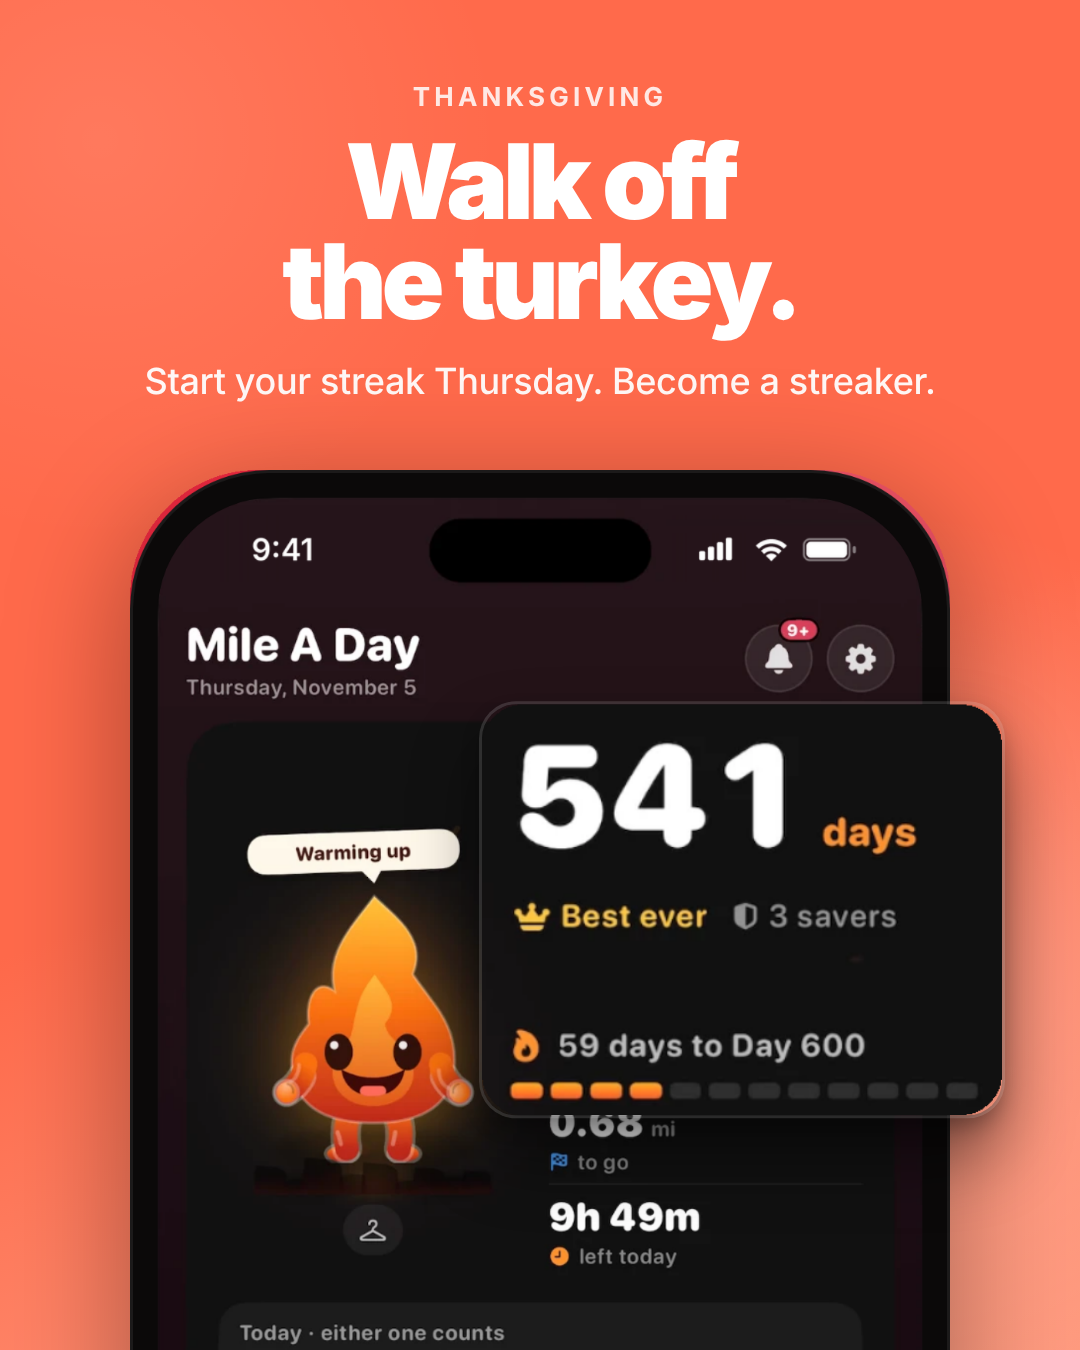
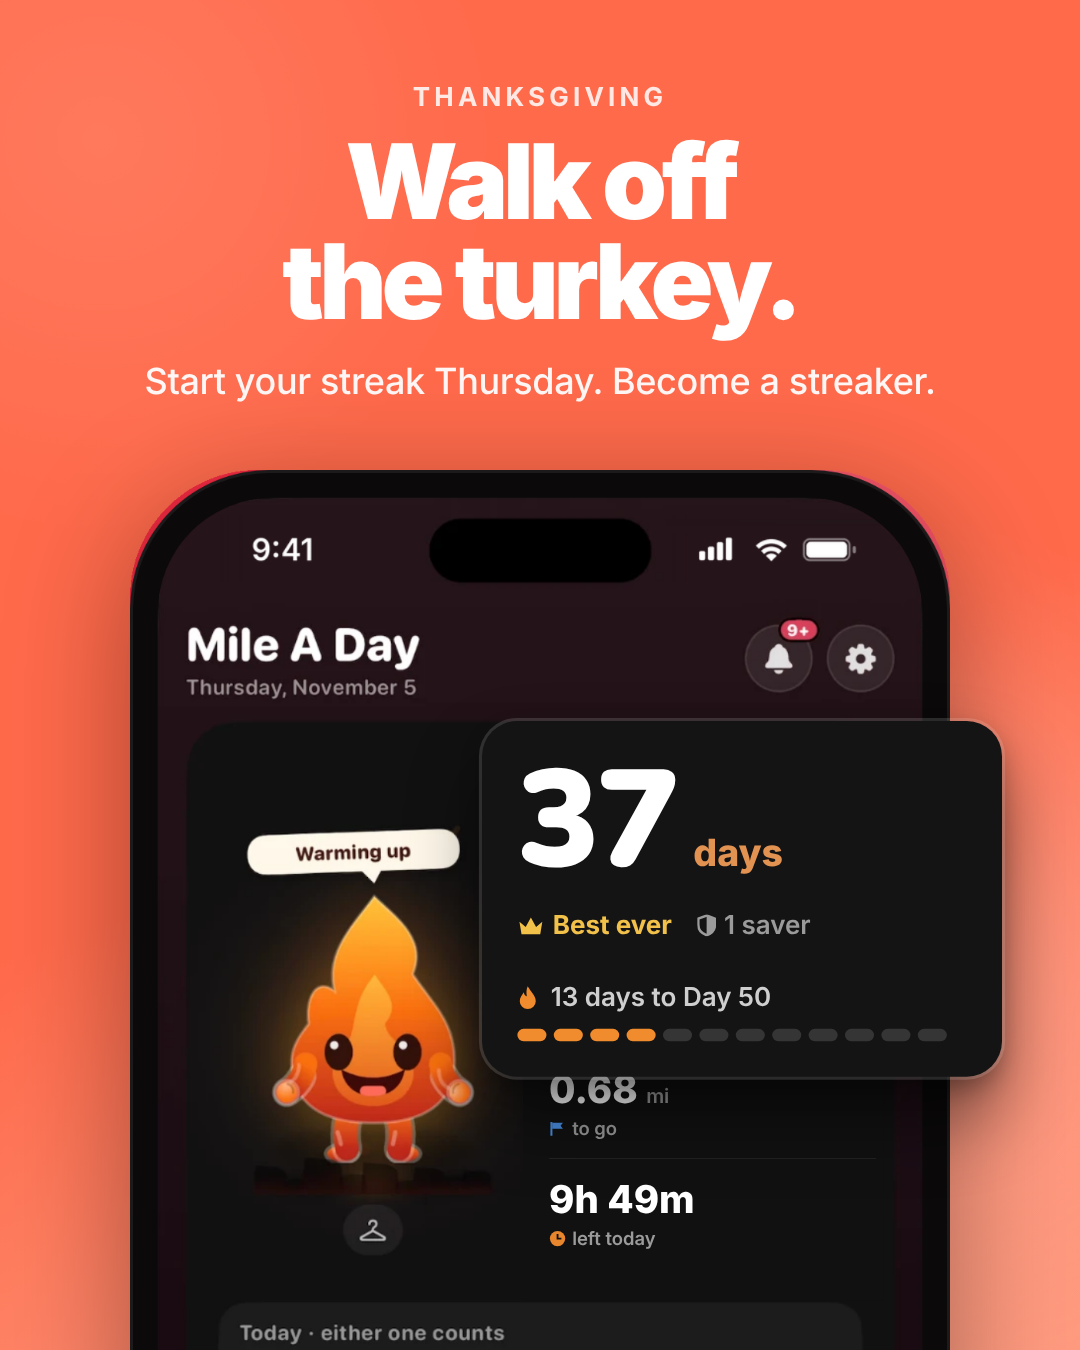
Show a 37-day streak in the Thanksgiving ads
Swaps the 541-day stats card for a redrawn 37-day one, so new users see
a reachable streak, and tightens the gap between Best ever and the next
milestone.

Claude-Session: https://claude.ai/code/session_01Y9vwq5W5Nh2T9TYQcjQjGm

Changed region(s): [[0.4278, 0.5289, 0.9472, 0.9333], [0.8556, 0.4978, 0.9472, 0.56], [0.4278, 0.5289, 0.4583, 0.56]]

diff --git a/marketing/ads/holiday-2026/README.md b/marketing/ads/holiday-2026/README.md
@@ -10,6 +10,7 @@ Every ad follows the same layout, so the set reads as one brand and each ad says
 - App Store colour background, centred kicker, two-line headline and one sentence in the top band.
 - A large real phone, centred, bleeding off the bottom edge.
 - ONE real UI element cropped from that same screen and lifted out at about 1.5× so the feature reads at a glance.
+- Streak screens show 37 days rather than the 541 in the App Store screenshot: a reachable number reads better to someone on day zero. The stats card is redrawn in the app's style for that.
 - No stickers or extra characters. Flamey appears only where he is on the real screen.
 - Voice: we call ourselves streakers, and the copy invites people to become one. Meta shows the app name and a
   Download button under the image, so the image carries no button of its own.
@@ -20,7 +21,7 @@ Feed 1080×1350 (`*-feed.png`) and Stories/Reels 1080×1920 (`*-story.png`, text
 
 | Ad | Lifted feature | Primary text | Headline |
 |---|---|---|---|
-| `1-walk-off` (coral) | Streak count | Thanksgiving tradition, new edition: start a streak and walk or run one mile a day. Become a streaker. Free on iPhone. | Walk off the turkey. |
+| `1-walk-off` (coral) | Streak card, shown at 37 days (an achievable streak, and day 37 is New Year's Day for a Thanksgiving start) | Thanksgiving tradition, new edition: start a streak and walk or run one mile a day. Become a streaker. Free on iPhone. | Walk off the turkey. |
 | `2-become` (amber) | "Today · either one counts" (a mile or 10,000 steps) | We call ourselves streakers. Clothes on, shoes on: one mile or 10,000 steps a day, either one counts. Free on iPhone. | Become a streaker. |
 | `3-backup` (green) | Streak Save token | Life happens. Streak tokens cover a missed day so one bad day doesn't end your streak. Join the streakers. Free on iPhone. | Miss a day? We've got you. |
 | `4-closet` (navy) | Flamey colours you unlock | Every streak medal unlocks a new look for your Flamey. Join the streakers. Free on iPhone. | Streak longer. Look better. |
